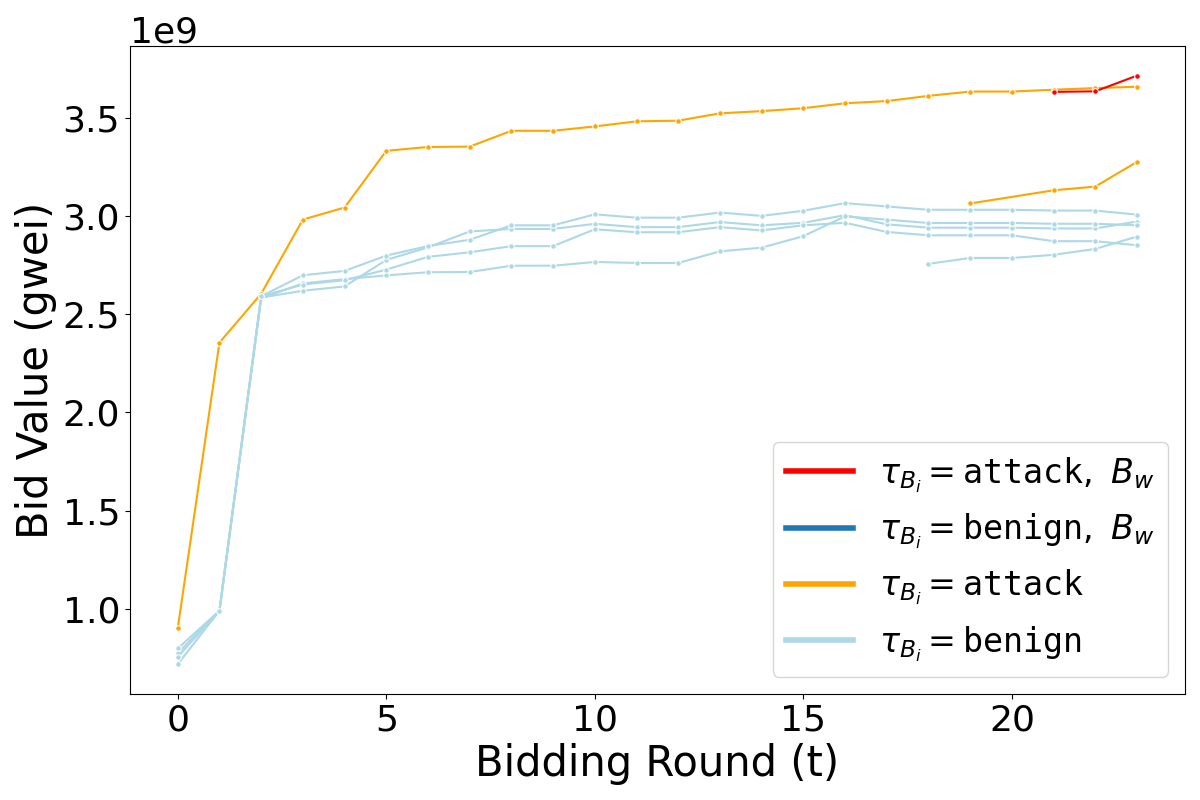
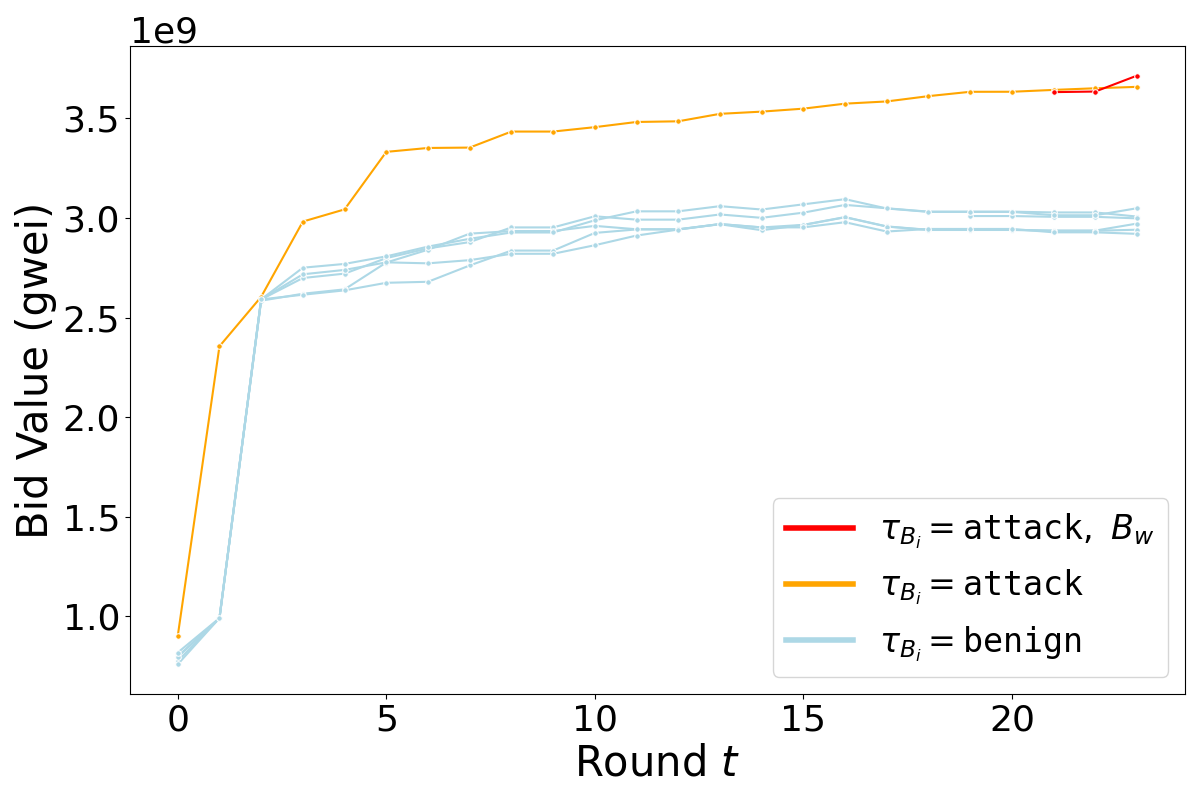
update axis

diff --git a/plots/ss/bidding_dynamic.py b/plots/ss/bidding_dynamic.py
@@ -69,14 +69,14 @@ def plot_bid_dynamics(file_path, block_number):
     # Add a legend explanation for colors
     legend_labels = {
         r"$\tau_{B_i} = \mathtt{attack},\ B_w$": "red" if not is_winning_attacker else None,
-        r"$\tau_{B_i} = \mathtt{benign},\ B_w$": "red" if is_winning_attacker else None,
+        # r"$\tau_{B_i} = \mathtt{benign},\ B_w$": "red" if is_winning_attacker else None,
         r"$\tau_{B_i} = \mathtt{attack}$": "orange",
         r"$\tau_{B_i} = \mathtt{benign}$": "lightblue"
     }
     legend_handles = [plt.Line2D([0], [0], color=color, lw=4, label=label) for label, color in legend_labels.items()]
     plt.legend(handles=legend_handles, loc="lower right", fontsize=24)
 
-    plt.xlabel('Bidding Round (t)', fontsize=30)
+    plt.xlabel(r"Round $t$", fontsize=30)
     plt.ylabel('Bid Value (gwei)', fontsize=30)
     plt.tick_params(axis='both', which='major', labelsize=26)
     plt.gca().yaxis.get_offset_text().set_fontsize(26)
@@ -189,14 +189,14 @@ def plot_block_value_dynamics(file_path, block_number):
     # Add a legend explanation for colors
     legend_labels = {
         r"$\tau_{B_i} = \mathtt{attack},\ B_w$": "red" if not is_winning_attacker else None,
-        r"$\tau_{B_i} = \mathtt{benign},\ B_w$": "red" if is_winning_attacker else None,
+        # r"$\tau_{B_i} = \mathtt{benign},\ B_w$": "red" if is_winning_attacker else None,
         r"$\tau_{B_i} = \mathtt{attack}$": "orange",
         r"$\tau_{B_i} = \mathtt{benign}$": "lightblue"
     }
     legend_handles = [plt.Line2D([0], [0], color=color, lw=4, label=label) for label, color in legend_labels.items()]
     plt.legend(handles=legend_handles, loc="lower right", fontsize=24)
 
-    plt.xlabel('Bidding Round (t)', fontsize=30)
+    plt.xlabel(r"Round $t$", fontsize=30)
     plt.ylabel('Block Value (gwei)', fontsize=30)
     plt.tick_params(axis='both', which='major', labelsize=26)
     plt.gca().yaxis.get_offset_text().set_fontsize(26)
